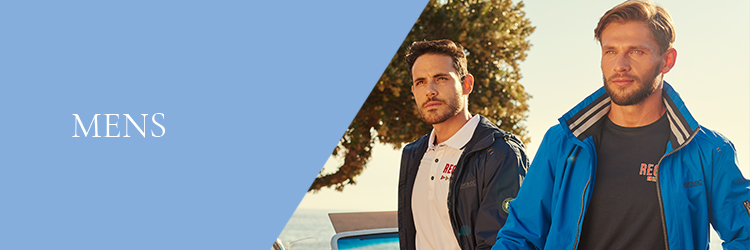
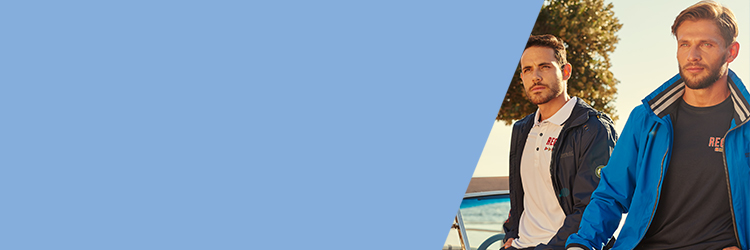
hh category headers

diff --git a/hawkshead/css/styles.css b/hawkshead/css/styles.css
@@ -3847,6 +3847,25 @@ div#monVars.roundelhide + .product-info-stock-sku > .save__product-page {
 .s-text-banner {
   width: 100%; }
 
+.bannercontainer {
+  width: 100%;
+  float: left;
+  height: 200px !important;
+  background-repeat: no-repeat;
+  background-size: contain; }
+
+.plp-header {
+  width: 1228px;
+  margin: 0 auto;
+  text-align: left;
+  padding-top: 3%;
+  padding-bottom: 3%;
+  font-size: 350%;
+  font-family: "Garamond-Regular";
+  text-transform: uppercase;
+  color: #fff !important;
+  letter-spacing: 2px; }
+
 .bannercontainer.mens {
   background-image: url("https://cdn.hawkshead.com/img/SS18/cat/top_level_banners/Mens-TopLevelCat.jpg"); }
 
@@ -3877,6 +3896,50 @@ div#monVars.roundelhide + .product-info-stock-sku > .save__product-page {
 .bannercontainer.superfeet {
   background-image: url("https://cdn.hawkshead.com/img/SS18/cat/top_level_banners/Superfeet-TopLevelCat.jpg"); }
 
+/*@media only screen and (max-width: 1228px){
+  
+  .bannercontainer.mens {
+    background-image: url("https://cdn.hawkshead.com/img/SS18/cat/top_level_banners/Mens-TopLevelCat-Tablet.jpg");
+  }
+  .bannercontainer.womens {
+    background-image: url("https://cdn.hawkshead.com/img/SS18/cat/top_level_banners/Womens-TopLevelCat-Tablet.jpg");
+  }
+  .bannercontainer.kids {
+    background-image: url("https://cdn.hawkshead.com/img/SS18/cat/top_level_banners/Kids-TopLevelCat-Tablet.jpg");
+  }
+  .bannercontainer.footwear {
+    background-image: url("https://cdn.hawkshead.com/img/SS18/cat/top_level_banners/Footwear-TopLevelCat-Tablet.jpg");
+  }
+  .bannercontainer.craghoppers {
+    background-image: url("https://cdn.hawkshead.com/img/SS18/cat/top_level_banners/Craghoppers-TopLevelCat-Tablet.jpg");
+  }
+  .bannercontainer.dare2b {
+    background-image: url("https://cdn.hawkshead.com/img/SS18/cat/top_level_banners/Dare2B-TopLevelCat-Tablet.jpg");
+  }
+  .bannercontainer.regatta {
+    background-image: url("https://cdn.hawkshead.com/img/SS18/cat/top_level_banners/Regatta-TopLevelCat-Tablet.jpg");
+  }
+  .bannercontainer.lowa{
+    background-image: url("https://cdn.hawkshead.com/img/SS18/cat/top_level_banners/Lowa-TopLevelCat-Tablet.jpg");
+  }
+  .bannercontainer.lomer{
+    background-image: url("https://cdn.hawkshead.com/img/SS18/cat/top_level_banners/Lomer-TopLevelCat-Tablet.jpg");
+  }
+  .bannercontainer.superfeet{
+    background-image: url("https://cdn.hawkshead.com/img/SS18/cat/top_level_banners/Superfeet-TopLevelCat-Tablet.jpg");
+  }
+
+  .bannercontainer {
+    height: 225px !important;
+    background-size: contain;
+  }
+
+  .banner__title,
+  .banner__text {
+    padding: 0 10px;
+  }
+  
+}*/
 @media only screen and (max-width: 1024px) {
   .bannercontainer {
     display: block !important; } }
@@ -3912,7 +3975,7 @@ div#monVars.roundelhide + .product-info-stock-sku > .save__product-page {
     background-image: url("https://cdn.hawkshead.com/img/SS18/cat/top_level_banners/Superfeet-TopLevelCat-Mobile.jpg");
   }*/
   .bannercontainer {
-    height: 130px !important;
+    height: 250px !important;
     background-size: contain; }
 
   .banner__title,

diff --git a/hawkshead/scss/partials/toplevel_banners.scss b/hawkshead/scss/partials/toplevel_banners.scss
@@ -115,6 +115,27 @@
     width: 100%;
 }
 
+.bannercontainer {
+    width: 100%;
+    float: left;
+    height: 200px !important;
+    background-repeat: no-repeat;
+    background-size: contain;
+}
+
+.plp-header {
+    width: 1228px;
+    margin: 0 auto;
+    text-align: left;
+    padding-top: 3%;
+    padding-bottom: 3%;
+    font-size: 350%;
+    font-family: "Garamond-Regular";
+    text-transform: uppercase;
+    color: #fff !important;
+    letter-spacing: 2px;
+}
+
 .bannercontainer.mens {
   background-image: url("https://cdn.hawkshead.com/img/SS18/cat/top_level_banners/Mens-TopLevelCat.jpg");
 }
@@ -145,6 +166,52 @@
 .bannercontainer.superfeet{
   background-image: url("https://cdn.hawkshead.com/img/SS18/cat/top_level_banners/Superfeet-TopLevelCat.jpg");
 }
+
+/*@media only screen and (max-width: 1228px){
+  
+  .bannercontainer.mens {
+    background-image: url("https://cdn.hawkshead.com/img/SS18/cat/top_level_banners/Mens-TopLevelCat-Tablet.jpg");
+  }
+  .bannercontainer.womens {
+    background-image: url("https://cdn.hawkshead.com/img/SS18/cat/top_level_banners/Womens-TopLevelCat-Tablet.jpg");
+  }
+  .bannercontainer.kids {
+    background-image: url("https://cdn.hawkshead.com/img/SS18/cat/top_level_banners/Kids-TopLevelCat-Tablet.jpg");
+  }
+  .bannercontainer.footwear {
+    background-image: url("https://cdn.hawkshead.com/img/SS18/cat/top_level_banners/Footwear-TopLevelCat-Tablet.jpg");
+  }
+  .bannercontainer.craghoppers {
+    background-image: url("https://cdn.hawkshead.com/img/SS18/cat/top_level_banners/Craghoppers-TopLevelCat-Tablet.jpg");
+  }
+  .bannercontainer.dare2b {
+    background-image: url("https://cdn.hawkshead.com/img/SS18/cat/top_level_banners/Dare2B-TopLevelCat-Tablet.jpg");
+  }
+  .bannercontainer.regatta {
+    background-image: url("https://cdn.hawkshead.com/img/SS18/cat/top_level_banners/Regatta-TopLevelCat-Tablet.jpg");
+  }
+  .bannercontainer.lowa{
+    background-image: url("https://cdn.hawkshead.com/img/SS18/cat/top_level_banners/Lowa-TopLevelCat-Tablet.jpg");
+  }
+  .bannercontainer.lomer{
+    background-image: url("https://cdn.hawkshead.com/img/SS18/cat/top_level_banners/Lomer-TopLevelCat-Tablet.jpg");
+  }
+  .bannercontainer.superfeet{
+    background-image: url("https://cdn.hawkshead.com/img/SS18/cat/top_level_banners/Superfeet-TopLevelCat-Tablet.jpg");
+  }
+
+  .bannercontainer {
+    height: 225px !important;
+    background-size: contain;
+  }
+
+  .banner__title,
+  .banner__text {
+    padding: 0 10px;
+  }
+  
+}*/
+
 
 @media only screen and (max-width: 1024px) {
   .bannercontainer {
@@ -187,7 +254,7 @@
   }*/
 
   .bannercontainer {
-    height: 130px !important;
+    height: 250px !important;
     background-size: contain;
   }
 
